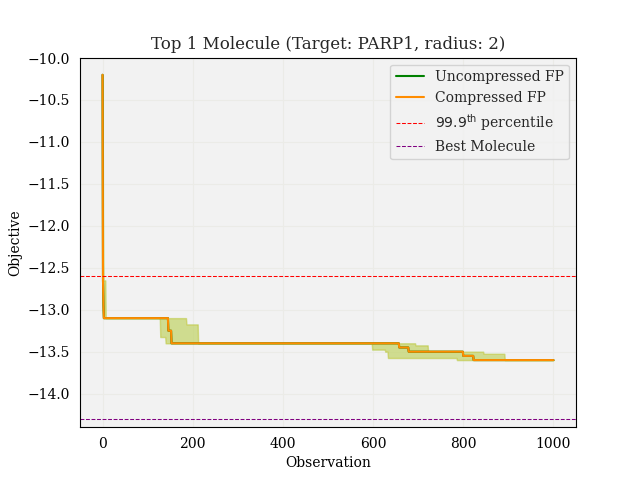
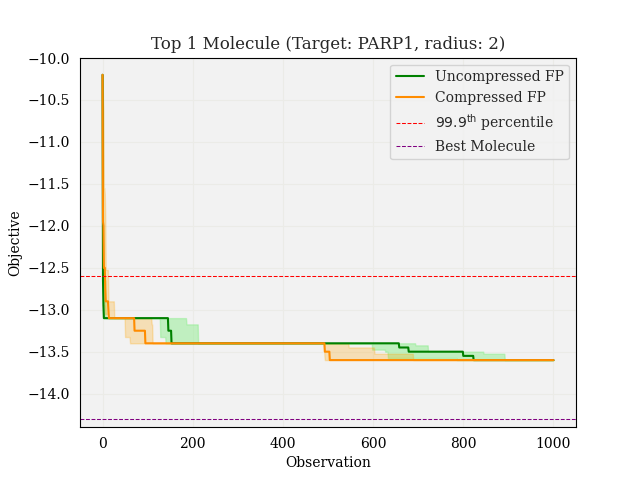
Update progress.md

Changed region(s): [[0.5, 0.6875, 0.7812, 0.7812], [0.1562, 0.4062, 0.3125, 0.7188]]

diff --git a/code/plot-bo-results.py b/code/plot-bo-results.py
@@ -76,7 +76,7 @@ def main(target, n_init, budget, sparse, radius, make_hist):
     n = len(data_sparse)
     for i in range(n):
         best_sparse = data_sparse[i]['best']
-        best_compressed = data_sparse[i]['best']
+        best_compressed = data_compressed[i]['best']
 
         top10_sparse = data_sparse[i]['top10']
         top10_compressed = data_compressed[i]['top10']

diff --git a/progress.md b/progress.md
@@ -1,37 +1,10 @@
-
-### Thoughts:
-
-* ~~Should we be using consistent GP params for fingerprint comparison? --> Maybe. First, let's see what they are~~
-* UMAP / t-SNE projections of chemical space: have unobserved in gray, observed in another color
-* ~~Try BO exp for many iters? (e.g., 100+)~~
-* ~~Try EI acquisition function~~
-* ~~Compare preliminary BO experiments to compressed fingerprints~~
-* ~~Try BO experiments with larger tolerance~~
-* ~~Should we try predicting different endpoints besides logS?~~
-* ~~Is `gp.set_training_data()` the right method to update GP posterior? --> No~~
-* Can check internal diversity of a dataset for regression / BO tasks to understand how likely hash collisions are
-
-<br>
-
-- run bo jobs in parallel
-- run more trials, try running w/ larger budgets
-- currently ressetting kernel matrix -> fix this
-- profiling -> address which parts of code are bottlenecking
-- fix same states using random seed
-- **caching test_train kernel matrix**
-- SLURM resources (1 trial, smaller jobs, slurm array to run the same job with different seed / params --> runs in parallel)
-  - should enable running more trials as well
-- record SMILES strings at each iter, analyze different "choices" between GPs w/ different fps
-- how much will GPU speed things up? (maybe helps with matrix multiplication)
-
-
-
 #### Questions:
 
-* Not seeing a huge speedup with cached L. What do you think?
-* Is there a faster way to make observations from noisy data? Note that I call `predict_y()` twice in `ei()` method.
-* Should I be caching the test_train kernel matrix instead of the Cholesky factorization? What about when `full_covar` = `False`?
+* What are the best ways to contribute to the git repositories?
+* What should I do for GP hyperparameters? I'm currently setting `amp` to dataset variance and `noise = 1e-2 * amp`
 * To compute incumbent, I am now taking the posterior mean at the best observed point, rather than calling `predict_y()` on the whole training set and taking the max of that. Is this reasonable?
+* Where do you see this project going from here?
+* I changed back to using `ZeroMeanTanimotoGP` for simplicity at the moment, what do you think? (I'll probably use `ConstantMeanGP` once I implement it)
 
 To compute incumbent before:
 ```py
@@ -51,11 +24,19 @@ incumbent, _ = gp.predict_y(gp_params, best_x, full_covar=False)[0]
 
 
 
+* in `predict_f()` are the parameters used for prediction the same that are used to compute the Cholesky factor?
+  --> Same for `predict_y()`
+* predictive GP class with fixed parameters
+* Subtract off dataset means for `ZeroMeanTanimotoGP`
+* Constant mean
+* Refactor for BO project, caching
+* Re-run BO experiments with subtracted mean
+
 # March
 
 ### To Do:
 
-#### Cleaning up code:
+#### Misc:
 - [x] Profiling code
 - [x] Cache Cholesky factorization of kernel matrix, implement efficient update function
 - [x] Cache K_test_train
@@ -64,15 +45,17 @@ incumbent, _ = gp.predict_y(gp_params, best_x, full_covar=False)[0]
 - [x] Optimize SLURM resource usage (smaller jobs, SLURM arrays w/ different seeds dictating different params / data inits)
 - [x] Record SMILES strings at each BO iter
 - [ ] Test `update_choleky()` method in `test_kern_gp.py`
+  - Can test this by re-computing Cholesky factor, as well as using update method, and comparing
+- [ ] Run all regression experiments (`PARP1`, `F2`, `ESR2`), (compressed, uncompressed), (r2, r4), (binary, count)
+- [ ] Implement `ConstantMeanTanimotoGP`
+- [ ] Generalize `add_observation()` to $n$ observations
 
 #### BO experiments
-- [ ] Run all regression experiments (`PARP1`, `F2`, `ESR2`), (compressed, uncompressed), (r2, r4), (binary, count)
-  - [ ] Run baselines for `ESR2` and `F2`
-- [ ] Run all BO experiments for 100 initial molecules and budget w/ GP regression params on bottom 80%
-  - [ ] `PARP1`
+- [x] Run all BO experiments for 1000 initial molecules and budget w/ GP regression params on bottom 80%
+  - [x] `PARP1`
   - [ ] `F2`
-  - [ ] `ESR2`
-- [ ] After making code faster and fixing SLURM resource usage, run more trials w/ larger initalizations / budgets
+  - [x] `ESR2`
+- [x] After making code faster and fixing SLURM resource usage, run more trials w/ larger initalizations / budgets
 
 
 # Feb
@@ -83,13 +66,13 @@ incumbent, _ = gp.predict_y(gp_params, best_x, full_covar=False)[0]
 
 - [x] EI in noisy case (posterior mean implementation)
 - [x] BO plots: show median, min, max (or 25th / 75th percentile) instead of mean, std
-- [ ] Dockstring:
+- [x] Dockstring:
   - [x] Regression benchmark to see initial performance (PARP1, F2)
   - [x] Dockstring BO experiment (initialize on 100/1000 molecules, run BO w/ budget of 100/1000)
     - [x] Evaluate radiuses 2 and 4 on targets PARP1 and F2
     - [x] Compare each to corresponding compressed fingerprints
     - [x] Use regression GP parameters for corresponding BO experiment
-    - [ ] Try running on bottom 80% of dataset
+    - [x] Try running on bottom 80% of dataset
 
 #### Other: 
 
